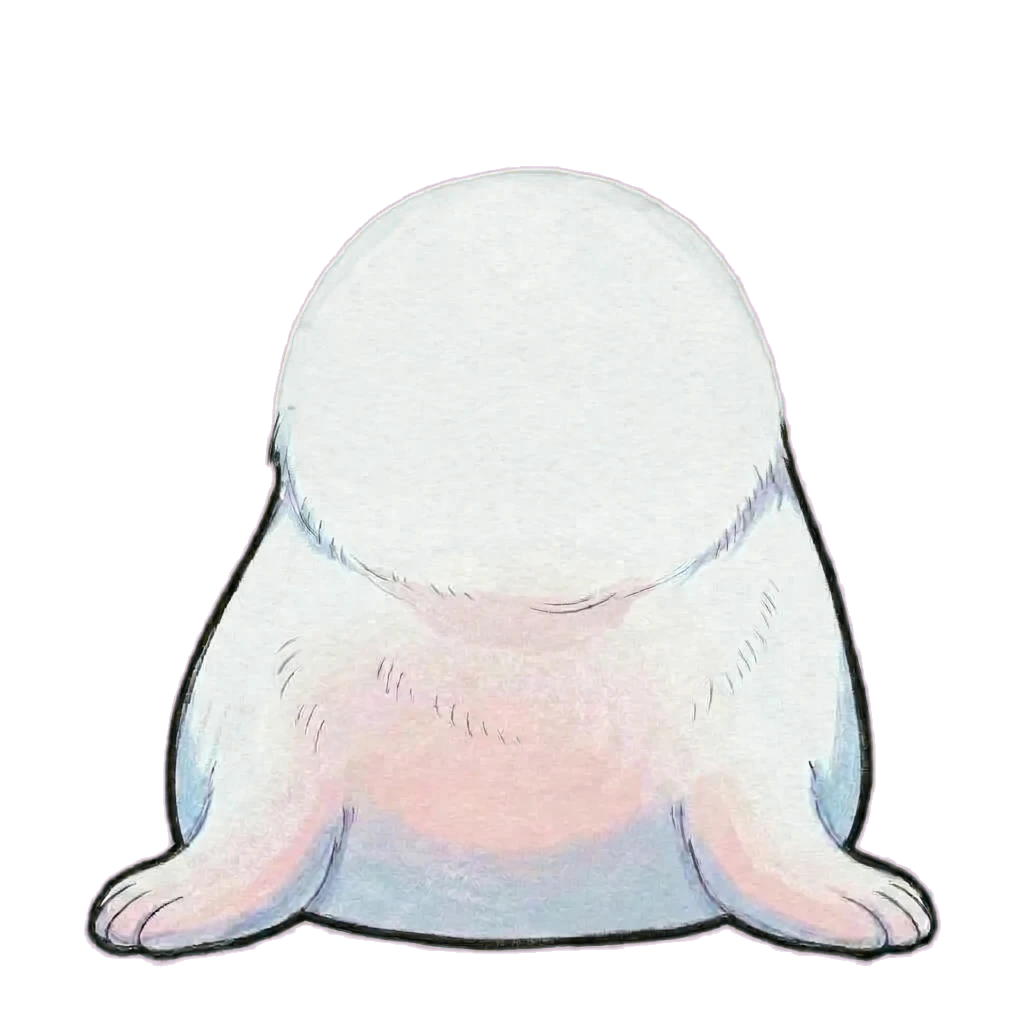
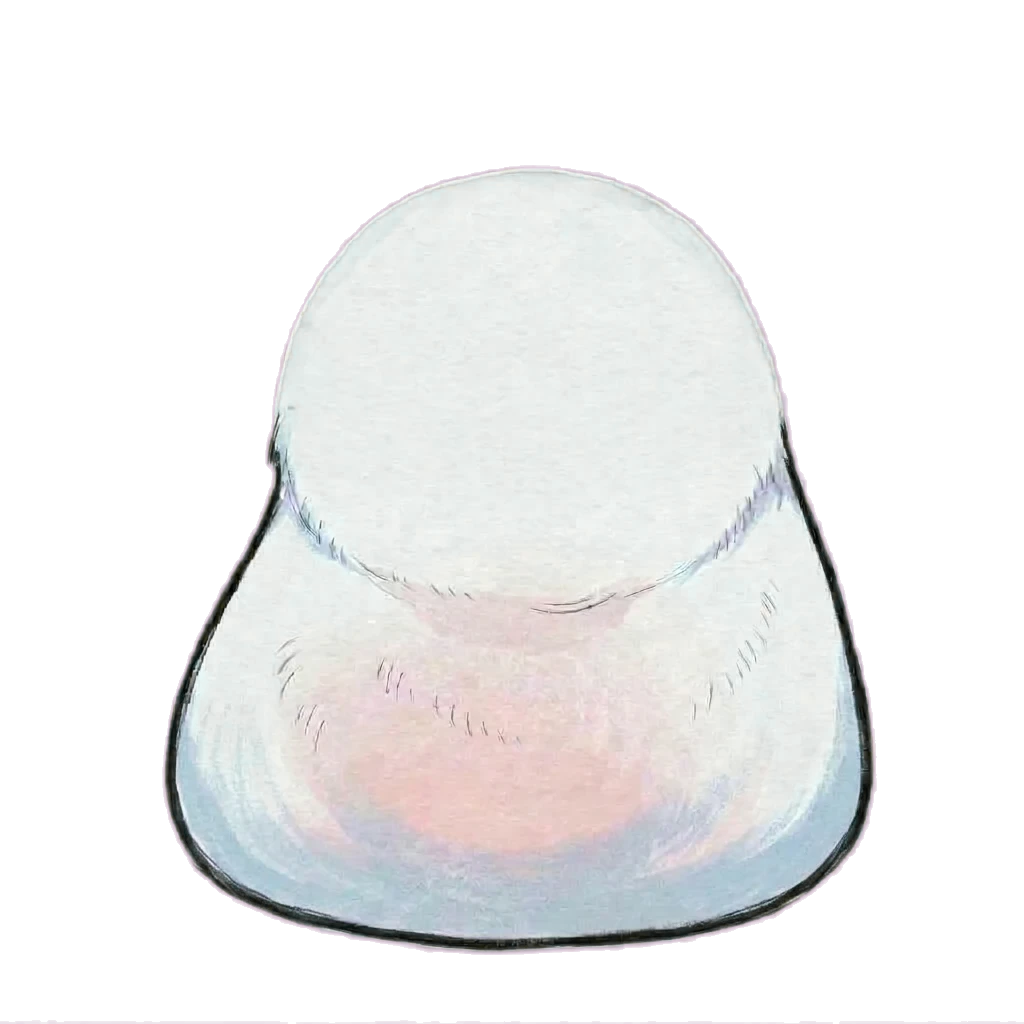
前鰭拆成獨立圖層，以肩膀為支點小幅擺動
- art/seal-flippers.png：生圖工具從身體圖生出的前鰭圖（左右兩格），去背後放在身體後面，只有腳掌露出；
  中間的分隔線用 clip-flipper-left/right 裁掉
- art/seal-body.png：改為不含前鰭、底部補完整的身體圖；原本整身的原始檔改名 art/src/seal-body-full.webp
- rig.js：鰭只往離開身體的方向轉——平常 0～1.5 度起伏、開心時拍動、驚訝時抬起、睡著時放下
- desktop/package.json 加入鰭圖；README 更新圖層說明與換圖步驟

Changed region(s): [[0.625, 0.75, 0.9375, 0.9375], [0.0625, 0.75, 0.3438, 0.9375]]

diff --git a/index.html b/index.html
@@ -9,11 +9,12 @@
 <body class="bg-soft mirror">
   <main id="stage">
     <!--
-      角色 = 兩張同構圖的去背 PNG（1024 x 1024）+ 疊在臉上的向量圖層：
-        art/seal-body.png 身體（固定不動；頂端多畫了一截圓頂藏在頭後面，用 body-mask 把太高的部分遮掉）
+      角色 = 三張同構圖的去背 PNG（1024 x 1024）+ 疊在臉上的向量圖層：
+        art/seal-flippers.png 前鰭（在身體後面，以肩膀為支點小幅擺動）
+        art/seal-body.png 身體（不含前鰭，固定不動；頂端多畫了一截圓頂藏在頭後面，用 body-mask 把太高的部分遮掉）
         art/seal-head.png 頭（轉頭、點頭、側傾都只動這一層，臉上的疊圖層跟著一起動）
       程式只靠下面這些 id 找圖層，換圖時保留 id、依新圖量座標並同步修改 js/rig.js 開頭的常數：
-        avatar / body / head
+        avatar / flipper-left / flipper-right / body / head
         eye-left-open / eye-left-closed / eye-left-happy
         eye-right-open / eye-right-closed / eye-right-happy
         mouth-open / blush / zzz / exclaim
@@ -26,12 +27,20 @@
         <filter id="soft-1" x="-30%" y="-30%" width="160%" height="160%"><feGaussianBlur stdDeviation="0.8" /></filter>
         <!-- 身體圖的圓頂藏在頭後面：y=505 以下全部顯示；以上只留一個「脖子」形狀（肩膀往上到 y≈482 後，
              沿扁橢圓往內收到頭後面）。頭轉動時露出來的是脖子的弧線與白毛，不會出現第二層頭的輪廓 -->
+        <clipPath id="clip-flipper-left"><rect x="0" y="0" width="500" height="1024" /></clipPath>
+        <clipPath id="clip-flipper-right"><rect x="524" y="0" width="500" height="1024" /></clipPath>
         <mask id="body-mask" maskUnits="userSpaceOnUse" x="0" y="0" width="1024" height="1024">
           <path fill="#fff" d="M 0 505 H 260 L 270 482 A 263 95 0 0 1 802 482 L 814 505 H 1024 V 1024 H 0 Z" />
         </mask>
       </defs>
 
       <g id="avatar">
+        <!-- 前鰭：放在身體後面，只有伸出身體外的腳掌看得到。兩隻鰭畫在同一張圖的左右兩半，中間有一條分隔線要裁掉 -->
+        <g id="flippers">
+          <g id="flipper-left"><image href="art/seal-flippers.png" x="0" y="0" width="1024" height="1024" clip-path="url(#clip-flipper-left)" /></g>
+          <g id="flipper-right"><image href="art/seal-flippers.png" x="0" y="0" width="1024" height="1024" clip-path="url(#clip-flipper-right)" /></g>
+        </g>
+
         <g id="body" mask="url(#body-mask)">
           <image href="art/seal-body.png" x="0" y="0" width="1024" height="1024" />
           <!-- 脖子的描邊：接在肩膀描邊的末端往內收，讓轉頭時露出的輪廓是連續的 -->

diff --git a/js/rig.js b/js/rig.js
@@ -27,6 +27,8 @@
   // 與 index.html 裡的 SVG 座標對應（1024 x 1024，由 art/seal-head.png、seal-body.png 量出來），換圖時請同步修改
   const BASE_CX = 512, BASE_BOTTOM = 964; // 呼吸與彈跳的支點：身體底部中央
   const NECK = { x: 535, y: 600 }; // 頭部旋轉的支點：頭圖下緣中央偏上（頭圖範圍 x 252-817、y 157-671）
+  const FLIPPER_L = { x: 240, y: 800 }; // 前鰭的支點（肩膀，在身體裡面）；鰭只往離開身體的方向轉，反方向會從身體邊緣露出鰭根
+  const FLIPPER_R = { x: 784, y: 800 };
   const HEAD_MOVE = { x: 18, y: 12, roll: 6 }; // 頭最多平移幾像素、側傾幾度；再大會在肩膀處露出身體圓頂的遮罩邊
   const EYE_L = { x: 401, y: 350 };
   const EYE_R = { x: 636, y: 350 };
@@ -53,6 +55,8 @@
       this.el = {
         avatar: $('avatar'),
         head: $('head'),
+        flipperL: $('flipper-left'),
+        flipperR: $('flipper-right'),
         eyeLOpen: $('eye-left-open'),
         eyeROpen: $('eye-right-open'),
         eyeLClosed: $('eye-left-closed'),
@@ -105,6 +109,15 @@
       const hx = yaw * HEAD_MOVE.x;
       const hy = pitch * HEAD_MOVE.y - surprised * 10; // 驚訝時頭往上彈一下
       this.el.head.setAttribute('transform', `translate(${fmt(hx)} ${fmt(hy)}) rotate(${fmt(roll)} ${NECK.x} ${NECK.y})`);
+
+      // 前鰭：平常輕輕起伏（0～1.5 度）、開心時拍動（最多再加 6 度）、驚訝時抬起 4 度、睡著時放下；
+      // 角度一律 ≥ 0（左鰭順時針、右鰭逆時針 = 往外抬），兩邊相位稍微錯開才不會像機器
+      const awake = 1 - sleep * 0.7;
+      const flap = happy * 3 * (1 + Math.sin((t * Math.PI * 2) / 0.45));
+      const liftL = (0.75 + 0.75 * Math.sin((t * Math.PI * 2) / 3.1) + flap + surprised * 4) * awake;
+      const liftR = (0.75 + 0.75 * Math.sin((t * Math.PI * 2) / 3.1 + 1.3) + flap + surprised * 4) * awake;
+      this.el.flipperL.setAttribute('transform', `rotate(${fmt(liftL)} ${FLIPPER_L.x} ${FLIPPER_L.y})`);
+      this.el.flipperR.setAttribute('transform', `rotate(${fmt(-liftR)} ${FLIPPER_R.x} ${FLIPPER_R.y})`);
 
       // 眼睛：眨眼縮成一條線；驚訝放大；開心換成笑眼；眼珠順著轉頭方向微移
       const eyeScale = 1 + surprised * 0.3; // 放大後仍要在 eye-patches 的遮色塊範圍內
